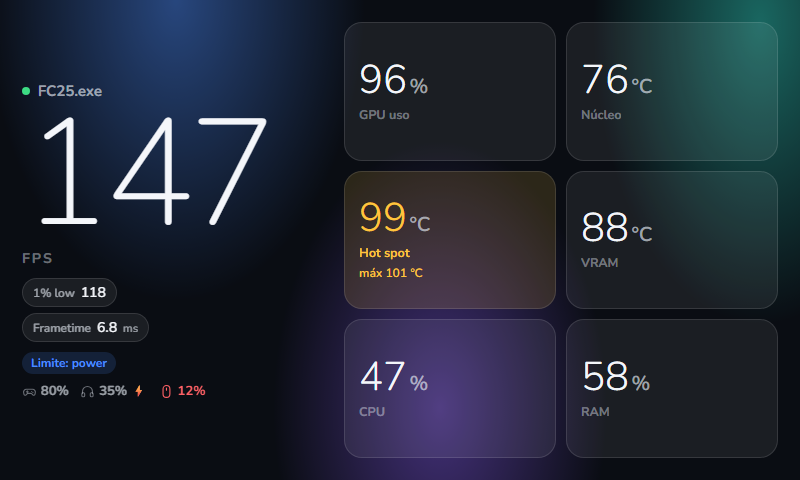
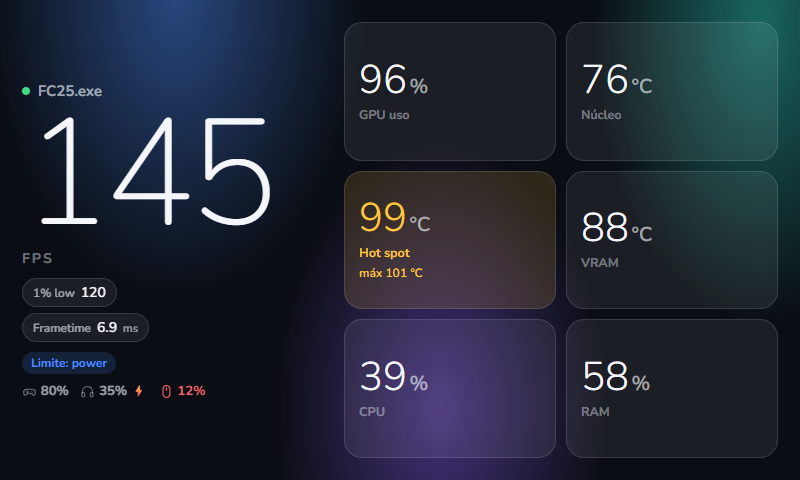
README: GIF do widget e capturas da 1.2 (Monitor, Relatório do PC, relatórios de jogo, comparar, card)

diff --git a/README.pt-BR.md b/README.pt-BR.md
@@ -10,20 +10,27 @@ clocks, consumo, RAM, bateria de mouse/headset sem fio, log CSV por sessão de j
 
 - **Seguro para anti-cheat:** o FPS vem do PresentMon (eventos ETW do Windows); nada é injetado no jogo.
 - **Leve:** ~0,3% de CPU no app + ~1,3% no WebView2, ~50–80 MB.
-- **5 temas** (Lumen, Mínimo, Neon, Terminal, Splash), claro/escuro, e 3 layouts (completo, médio, compacto).
+- **5 temas** (Lumen, Mínimo, Neon, Terminal, Splash), claro/escuro, e 5 layouts (completo, médio, compacto, além de
+  **faixa** para telas ultrawide em barra e **mini** para telinhas de 5–8").
+- **Monitor:** todos os sensores ao vivo, com gráfico recente, mínimo/máximo e o motivo quando um sensor não tem leitura.
+- **Relatório do PC:** quando o PC desliga ou dá tela azul, os últimos 2 minutos de leituras e os eventos do Windows daquela hora.
+- **Relatórios de jogo:** cada partida com FPS, engasgos, marcadores e temperaturas; compare duas partidas ou compartilhe um card PNG.
+- **Atalhos** (mostrar/esconder o widget, marcar momento) e uma API só leitura para o **Home Assistant**.
 - **Idiomas:** português e inglês (segue o Windows, ou escolha nas configurações).
 Spec: [docs/spec.md](docs/spec.md) · Design: [docs/design-notes.md](docs/design-notes.md)
 
 ## Capturas de tela
 
-![Widget, layout completo, tema Lumen escuro](docs/screenshots/widget-full-lumen-dark.png)
-![Widget, layout completo, tema Splash](docs/screenshots/widget-full-splash.png)
+![Widget, layout completo, tema Lumen escuro, valores de demonstração ao vivo](docs/screenshots/widget.gif)
 
-<img src="docs/screenshots/settings-overview.png" width="620" alt="Configurações: Visão geral com a prévia do widget e o que o Pitwall está fazendo agora"> <img src="docs/screenshots/pair-phone.png" width="200" alt="Parear o celular digitando o código de 6 dígitos">
+| | |
+|---|---|
+| ![Monitor: todos os sensores ao vivo com gráfico, mínimo e máximo](docs/screenshots/settings-monitor.png) | ![Relatório do PC: os 2 minutos antes do PC desligar, com os eventos do Windows](docs/screenshots/settings-pc-report.png) |
+| ![Relatório de jogo: a partida inteira com marcadores e engasgos](docs/screenshots/settings-game-report.png) | ![Comparando duas partidas lado a lado](docs/screenshots/settings-compare.png) |
+| ![Card de compartilhar: PNG 1200×630 de uma partida](docs/screenshots/share-card.png) | ![Configurações: Visão geral com a prévia do widget](docs/screenshots/settings-overview.png) |
+| ![Widget, layout faixa para telas ultrawide em barra](docs/screenshots/widget-strip-lumen-dark.png) | ![Widget, layout mini para telinhas](docs/screenshots/widget-mini-lumen-dark.png) |
 
-![Tour da primeira execução: destaque no layout do widget](docs/screenshots/tour.png)
-
-Mais em [docs/screenshots](docs/screenshots) (todos os temas do widget, layouts médio e compacto, Configurações no claro e no escuro, a tela de parear da TV).
+Mais em [docs/screenshots](docs/screenshots) (todos os temas do widget, layouts médio e compacto, Configurações no claro e no escuro, parear celular e TV, o tour da primeira execução).
 
 ## É seguro?
 

diff --git a/README.md b/README.md
@@ -11,19 +11,26 @@ memory junction), clocks, power, RAM, wireless mouse/headset battery, a CSV log 
 
 - **Anti-cheat safe:** FPS comes from PresentMon (Windows ETW events); nothing is injected into the game.
 - **Lightweight:** ~0.3% CPU for the app + ~1.3% for WebView2, ~50–80 MB.
-- **5 themes** (Lumen, Mínimo, Neon, Terminal, Splash), light/dark, and 3 layouts (full, medium, compact).
+- **5 themes** (Lumen, Mínimo, Neon, Terminal, Splash), light/dark, and 5 layouts (full, medium, compact, plus
+  **strip** for ultrawide bars and **mini** for 5–8" screens).
+- **Monitor:** every sensor live with a recent graph, min/max and why a sensor has no reading.
+- **PC report:** when the PC shuts off or blue-screens, the last 2 minutes of readings plus that hour's Windows events.
+- **Game reports:** every match with FPS, stutters, markers and temperatures; compare two matches or share a PNG card.
+- **Hotkeys** (show/hide the widget, mark a moment) and a read-only **Home Assistant** API.
 - **Languages:** English and Portuguese (follows Windows, or pick one in Settings).
 
 ## Screenshots
 
-![Widget, full layout, Lumen dark theme](docs/screenshots/widget-full-lumen-dark.png)
-![Widget, full layout, Splash theme](docs/screenshots/widget-full-splash.png)
+![Widget, full layout, Lumen dark theme, live demo values](docs/screenshots/widget.gif)
 
-<img src="docs/screenshots/settings-overview.png" width="620" alt="Settings: Overview with the widget preview and what Pitwall is doing now"> <img src="docs/screenshots/pair-phone.png" width="200" alt="Pairing a phone by typing the 6-digit code">
+| | |
+|---|---|
+| ![Monitor: every sensor live with graph, min and max](docs/screenshots/settings-monitor.png) | ![PC report: the last 2 minutes before the PC shut off, with Windows events](docs/screenshots/settings-pc-report.png) |
+| ![Game report: the whole match with markers and stutters](docs/screenshots/settings-game-report.png) | ![Comparing two matches side by side](docs/screenshots/settings-compare.png) |
+| ![Share card: 1200×630 PNG of a match](docs/screenshots/share-card.png) | ![Settings: Overview with the widget preview](docs/screenshots/settings-overview.png) |
+| ![Widget, strip layout for ultrawide bar screens](docs/screenshots/widget-strip-lumen-dark.png) | ![Widget, mini layout for small screens](docs/screenshots/widget-mini-lumen-dark.png) |
 
-![First-run tour: coach mark on the widget layout](docs/screenshots/tour.png)
-
-More in [docs/screenshots](docs/screenshots) (every widget theme, medium and compact layouts, Settings in light and dark, the TV pairing screen).
+More in [docs/screenshots](docs/screenshots) (every widget theme, medium and compact layouts, Settings in light and dark, phone and TV pairing, the first-run tour).
 
 ## Install
 
